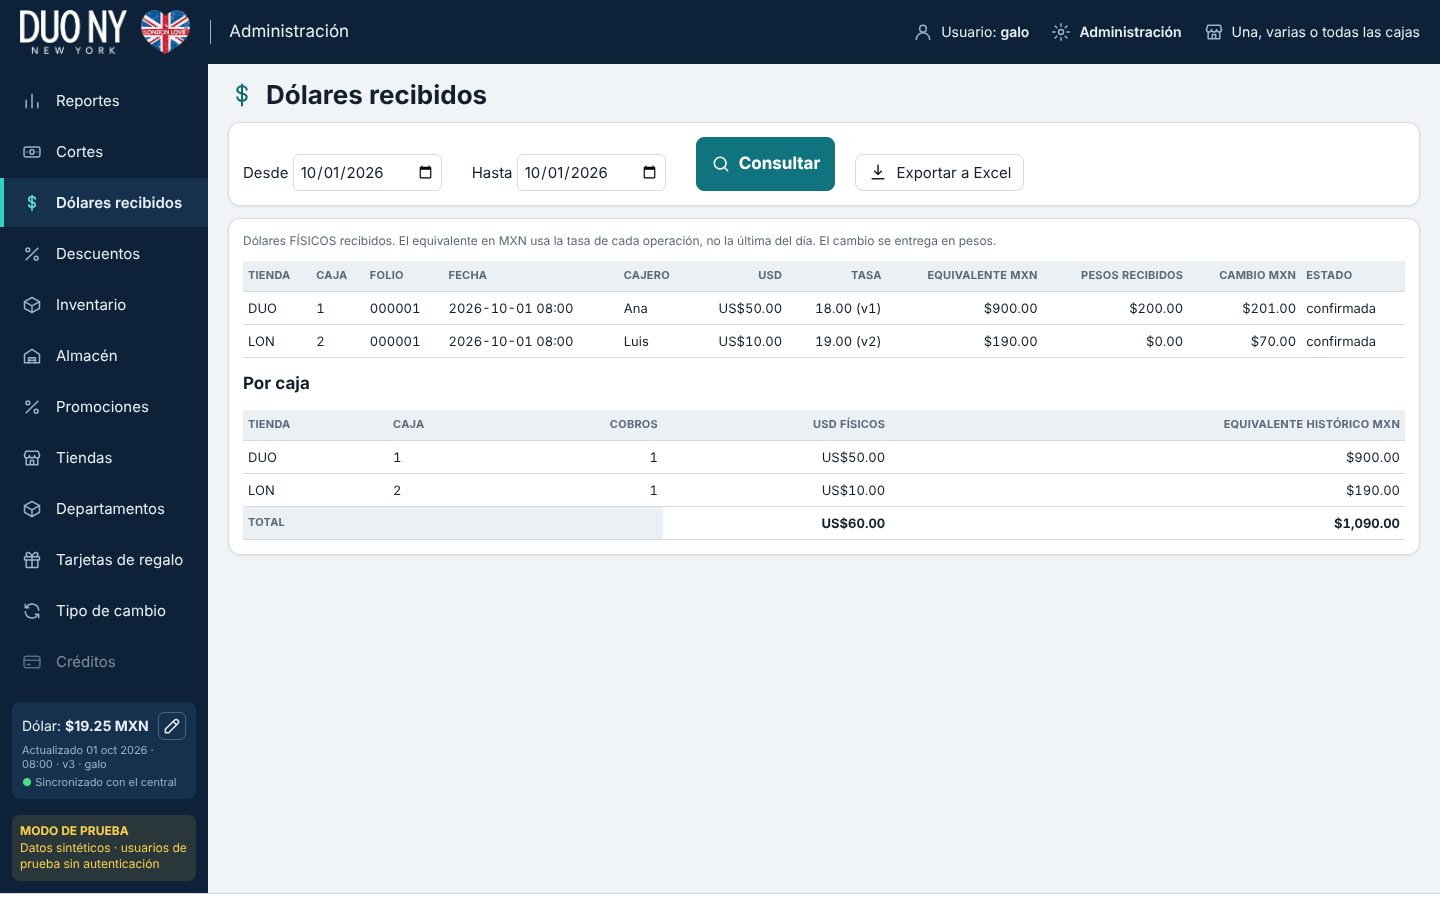
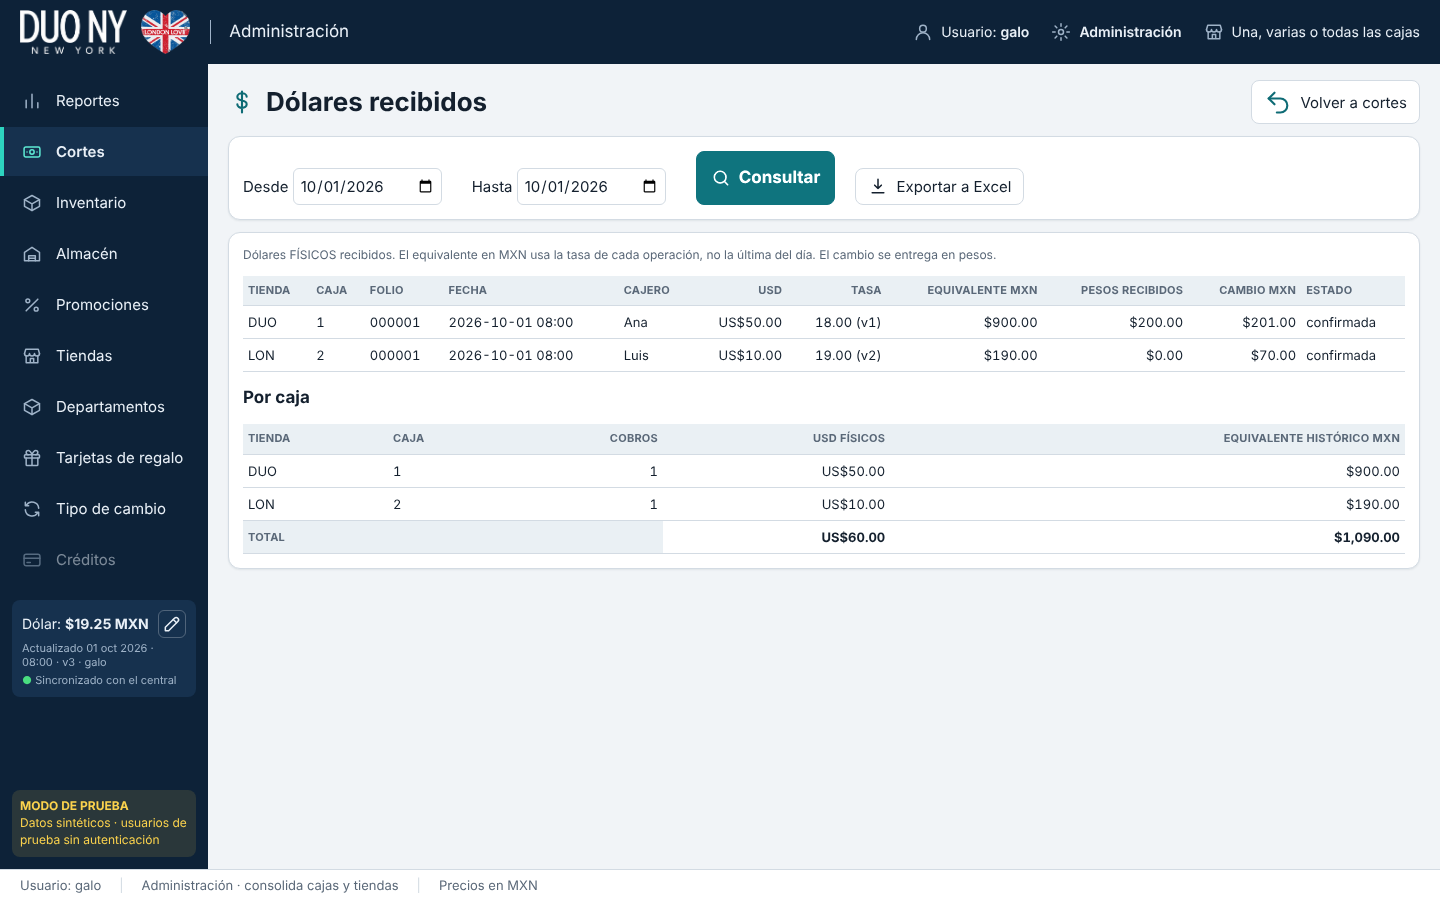
Menú de Administración: el reporte de promociones cuelga de Promociones y Dólares recibidos de Cortes
Claude-Session: https://claude.ai/code/session_01EkT26bVz5d9ua1iNBfPFMa

diff --git a/src/app/publico/app.js b/src/app/publico/app.js
@@ -134,7 +134,7 @@ function pintarNav() {
   const items = S.sesion.rol === 'cajero' ? [...S.sesion.nav, ...(cambia ? ['administracion'] : [])] : [...S.sesion.nav, 'creditos', ...(cambia ? ['volver_caja'] : [])]; // Créditos vive en Administración, no en la venta
   $('#nav').innerHTML = items.map((v) => v === 'creditos'
     ? `<button type="button" data-proximamente="creditos" disabled title="Próximamente" aria-label="Créditos (próximamente)">${ico(NAV[v][1])}<span>${NAV[v][0]}</span></button>`
-    : `<button type="button" data-vista="${v}" title="${NAV[v][0]}" ${v === S.vista ? 'aria-current="page"' : ''}>${ico(NAV[v][1])}<span>${NAV[v][0]}</span></button>`).join('');
+    : `<button type="button" data-vista="${v}" title="${NAV[v][0]}" ${v === ({ descuentos: 'promociones', dolares: 'cortes' }[S.vista] ?? S.vista) ? 'aria-current="page"' : ''}>${ico(NAV[v][1])}<span>${NAV[v][0]}</span></button>`).join('');
   for (const b of $('#nav').querySelectorAll('button[data-vista]')) {
     b.addEventListener('click', () => {
       if (b.dataset.vista === 'administracion') return window.__POS_CAMBIAR_SESION__('admin');
@@ -1040,10 +1040,11 @@ function abrirRechazoBillete() {
 // ── Administración: cortes consolidados con pesos y dólares en columnas separadas ──
 async function vistaCortes() {
   const hoy = new Date(Date.now() - 7 * 3600e3).toISOString().slice(0, 10);
-  $('#vista').innerHTML = `<div class="titulo-vista">${ico('cash')}<h1>Cortes de caja</h1></div>
+  $('#vista').innerHTML = `<div class="titulo-vista">${ico('cash')}<h1>Cortes de caja</h1><button class="btn" id="btn-ir-dolares" type="button" style="margin-left:auto">${ico('dollar')}<span>Dólares recibidos</span></button></div>
     <form class="filtros panel" id="filtros-cortes"><label>Desde <input type="date" id="cor-desde" value="${hoy}"></label><label>Hasta <input type="date" id="cor-hasta" value="${hoy}"></label>
       <button class="btn btn-primario" type="submit" style="width:auto">${ico('search')}<span>Consultar</span></button></form>
     <div id="resultado-cortes"></div>`;
+  $('#btn-ir-dolares').addEventListener('click', () => ir('dolares'));
   const consultar = async () => {
     const { cortes } = await api('/api/admin/cortes', { desde: $('#cor-desde').value, hasta: $('#cor-hasta').value });
     const vacio = { fondo: 0, cobros: 0, cambio: 0, entradas: 0, devoluciones: 0, cancelaciones: 0, retiros: 0, esperado: 0, contado: null, diferencia: null };
@@ -1074,7 +1075,7 @@ async function exportarArchivo(ruta, archivo) {
 }
 async function vistaDolares() {
   const hoy = new Date(Date.now() - 7 * 3600e3).toISOString().slice(0, 10);
-  $('#vista').innerHTML = `<div class="titulo-vista">${ico('dollar')}<h1>Dólares recibidos</h1></div>
+  $('#vista').innerHTML = `<div class="titulo-vista">${ico('dollar')}<h1>Dólares recibidos</h1><button class="btn" id="btn-volver-cortes" type="button" style="margin-left:auto">${ico('undo')}<span>Volver a cortes</span></button></div>
     <form class="filtros panel" id="filtros-usd"><label>Desde <input type="date" id="usd-desde" value="${hoy}"></label><label>Hasta <input type="date" id="usd-hasta" value="${hoy}"></label>
       <button class="btn btn-primario" type="submit" style="width:auto">${ico('search')}<span>Consultar</span></button>
       <button class="btn" type="button" id="btn-exportar-dolares">${ico('download')}<span>Exportar a Excel</span></button><span id="estado-exportar-usd" role="status" aria-live="polite"></span></form>
@@ -1089,6 +1090,7 @@ async function vistaDolares() {
       ${r.porCaja.map((c) => `<tr><td>${esc(c.tienda)}</td><td>${c.caja}</td><td class="num">${c.cobros}</td><td class="num">${usd(c.usd)}</td><td class="num">${mxn(c.equivalente_historico)}</td></tr>`).join('')}
       <tr><th colspan="3" scope="row">Total</th><td class="num" id="total-usd"><b>${usd(r.usd)}</b></td><td class="num" id="total-equivalente"><b>${mxn(r.equivalente_historico)}</b></td></tr></tbody></table></div>`;
   };
+  $('#btn-volver-cortes').addEventListener('click', () => ir('cortes'));
   $('#filtros-usd').addEventListener('submit', async (ev) => { ev.preventDefault(); await consultar(); });
   $('#btn-exportar-dolares').addEventListener('click', async () => {
     const e = $('#estado-exportar-usd');
@@ -1104,7 +1106,7 @@ const pctBp = (bp) => `${(bp / 100).toFixed(2).replace(/\.00$/, '')} %`;
 const NOM_TIPO_DESC = { promo: 'Promoción', cupon: 'Cupón', manual: 'Manual (supervisor)' };
 async function vistaDescuentos() {
   const hoy = new Date(Date.now() - 7 * 3600e3).toISOString().slice(0, 10);
-  $('#vista').innerHTML = `<div class="titulo-vista">${ico('percent')}<h1>Descuentos y promociones</h1></div>
+  $('#vista').innerHTML = `<div class="titulo-vista">${ico('percent')}<h1>Reporte de promociones y descuentos</h1><button class="btn" id="btn-volver-promos" type="button" style="margin-left:auto">${ico('undo')}<span>Volver a promociones</span></button></div>
     <form class="filtros panel" id="filtros-desc"><label>Desde <input type="date" id="desc-desde" value="${hoy}"></label><label>Hasta <input type="date" id="desc-hasta" value="${hoy}"></label>
       <button class="btn btn-primario" type="submit" style="width:auto">${ico('search')}<span>Consultar</span></button>
       <button class="btn" type="button" id="btn-exportar-desc">${ico('download')}<span>Exportar a Excel</span></button><span id="estado-exportar-desc" role="status" aria-live="polite"></span></form>
@@ -1127,6 +1129,7 @@ async function vistaDescuentos() {
       <div class="panel" style="margin-top:12px"><h2 style="margin-top:0">Detalle por ticket</h2><div class="tabla-cont"><table id="tabla-desc-detalle"><thead><tr><th>Tienda</th><th>Caja</th><th>Folio</th><th>Fecha</th><th>Cajero</th><th>Tipo</th><th>Concepto</th><th>Autorizó</th><th class="num">Venta</th><th class="num">Descuento</th><th class="num">% venta</th><th>Estado</th></tr></thead><tbody>
         ${r.filas.map((f) => `<tr data-folio="${f.folio}" data-tipo="${f.tipo}"><td>${esc(f.tienda)}</td><td>${f.caja}</td><td>${String(f.folio).padStart(6, '0')}</td><td>${esc(f.fecha_local)} ${esc(f.hora)}</td><td>${esc(f.cajero)}</td><td>${NOM_TIPO_DESC[f.tipo]}</td><td>${esc(f.concepto)}</td><td>${esc(f.supervisor ?? '')}</td><td class="num">${mxn(f.importe_venta)}</td><td class="num">${mxn(f.monto)}</td><td class="num">${pctBp(f.pct_bp)}</td><td>${f.estado === 'cancelada' ? '<span class="insignia cancelada">cancelada</span>' : 'confirmada'}</td></tr>`).join('') || '<tr><td colspan="12" class="vacio">Sin descuentos en el periodo.</td></tr>'}</tbody></table></div></div>`;
   };
+  $('#btn-volver-promos').addEventListener('click', () => ir('promociones'));
   $('#filtros-desc').addEventListener('submit', async (ev) => { ev.preventDefault(); await consultar(); });
   $('#btn-exportar-desc').addEventListener('click', async () => {
     const e = $('#estado-exportar-desc');
@@ -1483,7 +1486,7 @@ async function vistaPromociones() {
   const [{ promociones, hoy, tiendas, articulos }, { supervisores }] = await Promise.all([api('/api/admin/promociones'), api('/api/admin/supervisores')]);
   S.promos = promociones; S.hoyPromo = hoy; S.tiendasInfo = tiendas; S.artInfo = { ...(S.artInfo ?? {}), ...articulos };
   $('#vista').innerHTML = `<div class="titulo-vista">${ico('percent')}<h1>Promociones y cupones</h1></div>
-    <section class="panel"><div class="filas" style="align-items:center"><button class="btn btn-primario" id="btn-nueva-promo" type="button" style="width:auto">${ico('plus')}<span>Nueva promoción o cupón</span></button></div>
+    <section class="panel"><div class="filas" style="align-items:center"><button class="btn btn-primario" id="btn-nueva-promo" type="button" style="width:auto">${ico('plus')}<span>Nueva promoción o cupón</span></button><button class="btn" id="btn-reporte-promos" type="button" style="margin-left:auto">${ico('chart')}<span>Reporte de promociones</span></button></div>
       <p class="nota">Cada promoción o cupón vale solo en la tienda (o tiendas) que elija. Toda promoción lleva fecha de inicio y de término, o queda <b>sin fecha límite</b> hasta que Administración la desactive. En cada compra aplica <b>una sola</b> promoción o cupón: la que más descuento le da al cliente. Las promociones se aplican solas al cobrar; los cupones se capturan o se escanean en la caja. Para promocionar un artículo concreto, búsquelo al crear la promoción o use «Crear promoción» en Inventario.</p>
       <div id="msg-promo" class="mensaje" role="status" aria-live="polite"></div>
       <div class="tabla-cont"><table id="tabla-promos"><thead><tr><th>Nombre</th><th>Tienda</th><th>Tipo</th><th>Regla</th><th>Vigencia</th><th>Estado</th><th class="num">Usos</th><th></th></tr></thead><tbody>
@@ -1498,6 +1501,7 @@ async function vistaPromociones() {
       <button class="btn btn-primario" id="btn-sup" type="submit" style="width:auto">${ico('plus')}<span>Agregar supervisor</span></button></form>
       <div id="msg-sup" class="mensaje" role="status" aria-live="polite"></div></section>`;
   $('#btn-nueva-promo').addEventListener('click', () => abrirPromo(null));
+  $('#btn-reporte-promos').addEventListener('click', () => ir('descuentos'));
   for (const tr of $('#tabla-promos').querySelectorAll('tr[data-promo]')) {
     const p = S.promos.find((x) => x.id === tr.dataset.promo);
     tr.querySelector('.p-editar').addEventListener('click', () => abrirPromo(p));

diff --git a/test/19-banco-en-navegador.test.ts b/test/19-banco-en-navegador.test.ts
@@ -94,7 +94,7 @@ describe('[navegador real] Versión de prueba en una sola página (motor en memo
     await page.uncheck('#falla-hub');
     await page.selectOption('#sesion-prueba', 'admin');
     await page.waitForSelector('#filtros');
-    assert.deepEqual(await page.$$eval('#nav button', (b) => b.map((x) => x.textContent)), ['Reportes', 'Cortes', 'Dólares recibidos', 'Descuentos', 'Inventario', 'Almacén', 'Promociones', 'Tiendas', 'Departamentos', 'Tarjetas de regalo', 'Tipo de cambio', 'Créditos', 'Caja']);
+    assert.deepEqual(await page.$$eval('#nav button', (b) => b.map((x) => x.textContent)), ['Reportes', 'Cortes', 'Inventario', 'Almacén', 'Promociones', 'Tiendas', 'Departamentos', 'Tarjetas de regalo', 'Tipo de cambio', 'Créditos', 'Caja']);
     await page.click('#filtros button[type="submit"]');
     await page.waitForSelector('#tabla-reporte tbody tr');
     assert.equal(await page.locator('#tabla-reporte tbody tr').count(), 3, 'las 3 ventas, tras sincronizar');
@@ -449,12 +449,17 @@ describe('[navegador real] Versión de prueba en una sola página (motor en memo
     // reporte de descuentos: la venta aparece con el supervisor que la autorizó
     await page.click('#btn-nueva');
     await page.click('#nav button[data-vista="administracion"]');
-    await page.click('#nav button[data-vista="descuentos"]');
+    await page.click('#nav button[data-vista="promociones"]');
+    await page.click('#btn-reporte-promos');
     await page.waitForSelector('#tabla-desc-supervisor tr[data-supervisor]');
+    assert.equal(await page.getAttribute('#nav button[data-vista="promociones"]', 'aria-current'), 'page', 'el reporte cuelga de Promociones en el menú');
+    assert.equal(await page.locator('#nav button[data-vista="descuentos"]').count(), 0, 'ya no hay «Descuentos» aparte en el menú');
     assert.match((await page.textContent('#tabla-desc-supervisor tr[data-supervisor="Ana Supervisora"]'))!, /Ana Supervisora.*\$899\.00.*100 %/s);
     assert.equal(await page.textContent('#tabla-desc-resumen [data-campo="tickets"]'), '1 ticket(s)');
     assert.match((await page.textContent('#tabla-desc-detalle tr[data-tipo="manual"]'))!, /Descuento autorizado.*Ana Supervisora.*\$899\.00.*confirmada/s);
     await page.screenshot({ path: join(RAIZ, 'docs', 'capturas', '32-reporte-descuentos.png') });
+    await page.click('#btn-volver-promos');
+    await page.waitForSelector('#tabla-promos');
     assert.deepEqual(errores, []);
   });
   it('B6 promoción por tienda desde Inventario («Crear promoción»), paquete a precio fijo, nombre de tienda editable', async (t) => {
@@ -714,7 +719,8 @@ describe('[navegador real] Inventario real de DÚO en la página (solo con POS_I
     assert.equal(await page.locator('#btn-editar-tc').count(), 0, 'London Caja 2 no tiene permiso');
     await page.selectOption('#sesion-prueba', 'admin');
     await page.waitForSelector('#nav');
-    await page.click('#nav button[data-vista="dolares"]');
+    await page.click('#nav button[data-vista="cortes"]');
+    await page.click('#btn-ir-dolares');
     await page.fill('#usd-desde', new Date(Date.now() - 7 * 3600e3).toISOString().slice(0, 10));
     await page.click('#filtros-usd button[type="submit"]');
     await page.waitForSelector('#tabla-dolares tbody tr[data-folio]');

diff --git a/test/18-ui-e2e.test.ts b/test/18-ui-e2e.test.ts
@@ -200,7 +200,7 @@ describe('[navegador real — Chromium con Playwright, UI sobre SQLite]', { time
     ctx.m.pump();
     const { page, errores } = await pagina(browser, adm.url);
     await page.waitForSelector('#filtros');
-    assert.deepEqual(await page.$$eval('#nav button', (b) => b.map((x) => x.textContent)), ['Reportes', 'Cortes', 'Dólares recibidos', 'Descuentos', 'Inventario', 'Almacén', 'Promociones', 'Tiendas', 'Departamentos', 'Tarjetas de regalo', 'Tipo de cambio', 'Créditos']);
+    assert.deepEqual(await page.$$eval('#nav button', (b) => b.map((x) => x.textContent)), ['Reportes', 'Cortes', 'Inventario', 'Almacén', 'Promociones', 'Tiendas', 'Departamentos', 'Tarjetas de regalo', 'Tipo de cambio', 'Créditos']);
     await page.fill('#desde', '2026-10-01');
     await page.fill('#hasta', '2026-10-01');
     await page.click('#filtros button[type="submit"]');
@@ -685,7 +685,8 @@ describe('[navegador real — Chromium con Playwright, UI sobre SQLite]', { time
     await page.waitForSelector('#tabla-tc tr[data-version="3"]');
     assert.match((await page.textContent('#tabla-tc tr[data-version="3"]'))!, /v3\$19\.25\$19\.00 \(v2\)Administración|v3.*19\.25.*19\.00 \(v2\).*galo/);
     // dólares recibidos: cada operación con su tasa
-    await page.click('#nav button[data-vista="dolares"]');
+    await page.click('#nav button[data-vista="cortes"]');
+    await page.click('#btn-ir-dolares');
     await page.fill('#usd-desde', '2026-10-01');
     await page.fill('#usd-hasta', '2026-10-01');
     await page.click('#filtros-usd button[type="submit"]');

diff --git a/src/app/rutas.ts b/src/app/rutas.ts
@@ -32,7 +32,7 @@ export async function atender(o: { cajero?: ServicioCaja; admin?: ServicioAdmin 
       case 'GET /api/sesion':
         return ok(C
           ? { rol: 'cajero', usuario: C.actor.usuario, tienda: C.caja.tienda, caja: C.caja.caja, nav: ['venta', 'ventas', 'corte', ...(C.caja.cfg.metodos.includes('tarjeta_regalo') ? ['tarjetas'] : [])] }
-          : { rol: 'admin', usuario: A!.actor.usuario, cajas: A!.cajas, nav: ['reportes', 'cortes', 'dolares', 'descuentos', 'inventario', 'almacen', 'promociones', 'tiendas', 'departamentos', 'tarjetas', 'tipo_cambio'] });
+          : { rol: 'admin', usuario: A!.actor.usuario, cajas: A!.cajas, nav: ['reportes', 'cortes', 'inventario', 'almacen', 'promociones', 'tiendas', 'departamentos', 'tarjetas', 'tipo_cambio'] });
       // ── cajero ──
       case 'GET /api/estado': return ok({ estado: exigirCajero().estado() });
       case 'POST /api/venta/actual': { const c = exigirCajero(); const cart = c.carritoActual(); return ok({ cart, carrito: c.vista(cart) }); }

diff --git a/test/17-api-http.test.ts b/test/17-api-http.test.ts
@@ -69,7 +69,7 @@ porAlmacen('API HTTP local de la aplicación (cajero y Administración)', (alm) 
     assert.deepEqual(varias.porCaja.map((c: any) => [c.tienda, c.caja, c.tickets]).sort(), [['DUO', 1, 3], ['LON', 2, 1]]);
     assert.equal((await api(adm.url, '/api/venta/actual', {})).status, 403, 'Administración no opera la caja');
     assert.equal((await api(adm.url, '/api/estado')).status, 403);
-    assert.deepEqual((await api(adm.url, '/api/sesion')).json.nav, ['reportes', 'cortes', 'dolares', 'descuentos', 'inventario', 'almacen', 'promociones', 'tiendas', 'departamentos', 'tarjetas', 'tipo_cambio']);
+    assert.deepEqual((await api(adm.url, '/api/sesion')).json.nav, ['reportes', 'cortes', 'inventario', 'almacen', 'promociones', 'tiendas', 'departamentos', 'tarjetas', 'tipo_cambio']);
   });
 
   it('H4 impresora que falla: HTTP 200, la venta existe, y /reimprimir la reenvía con el mismo folio', async (t) => {

diff --git a/docs/arquitectura-etapa-0.md b/docs/arquitectura-etapa-0.md
@@ -436,7 +436,7 @@ Decisiones del propietario (punto 5): sin desglose de IVA en el ticket (el preci
 - **Imagen del cupón** (Administración → «Imagen QR»): tarjeta PNG 1080×1350 con el nombre de la tienda donde vale, el descuento, condiciones, vigencia, código y QR, más el QR solo y un texto para acompañar el mensaje (WhatsApp, correo, redes). La distribución es manual. El QR se verificó con un decodificador independiente (jsQR).
 - **Usos de cupón entre tiendas**: el conteo se hace con las ventas que cada caja conoce; con tiendas desconectadas un cupón de uso limitado podría canjearse una vez más de lo permitido hasta que se sincronicen.
 - **Descuentos manuales**: solo los autoriza un **supervisor** tecleando su clave (4 a 8 dígitos), **sin tope (hasta 100 %)**, sobre una línea o sobre toda la venta, en % o en $. Queda anotado quién lo autorizó. Con 100 % la venta se registra sin cobro (folio normal, total $0). Los supervisores se administran en Promociones; la clave se guarda con sal y SHA-256 y nunca se muestra. Es un control de prototipo: sigue sin haber autenticación de usuarios ni bloqueo por intentos fallidos.
-- **Reporte de descuentos** (Administración → Descuentos, con periodo y exportación a Excel): total descontado y tickets, separado en promociones, cupones y descuentos autorizados por supervisor; tabla **por supervisor** (descuentos, monto, mayor % de una venta, cuántos al 100 %), tabla por promoción o cupón y detalle por ticket (caja, folio, cajero, concepto, quién autorizó, importe de la venta, descuento y % de la venta). Las ventas canceladas aparecen marcadas y **no suman** en los totales. Un descuento de una venta anterior al registro de supervisores sale «sin registro de supervisor».
+- **Reporte de promociones y descuentos** (Administración → Promociones → botón «Reporte de promociones», con periodo y exportación a Excel): total descontado y tickets, separado en promociones, cupones y descuentos autorizados por supervisor; tabla **por supervisor** (descuentos, monto, mayor % de una venta, cuántos al 100 %), tabla por promoción o cupón y detalle por ticket (caja, folio, cajero, concepto, quién autorizó, importe de la venta, descuento y % de la venta). Las ventas canceladas aparecen marcadas y **no suman** en los totales. Un descuento de una venta anterior al registro de supervisores sale «sin registro de supervisor».
 - **Pendiente**: «Ticket de regalo» y «Venta en espera» siguen «Próximamente».
 
 ## 20. Inventario: lista completa, edición e historial [P]
